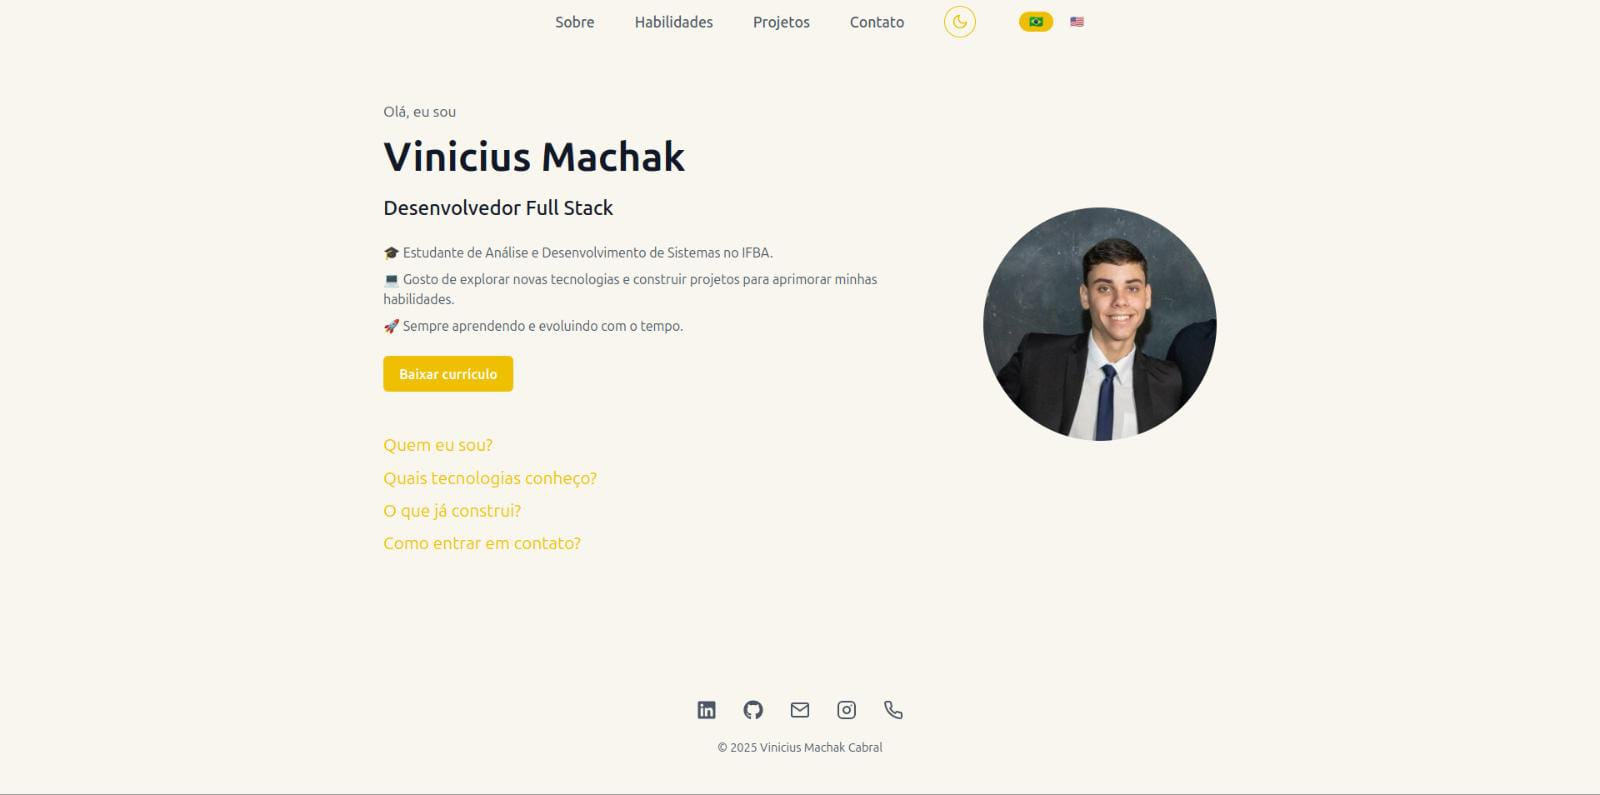
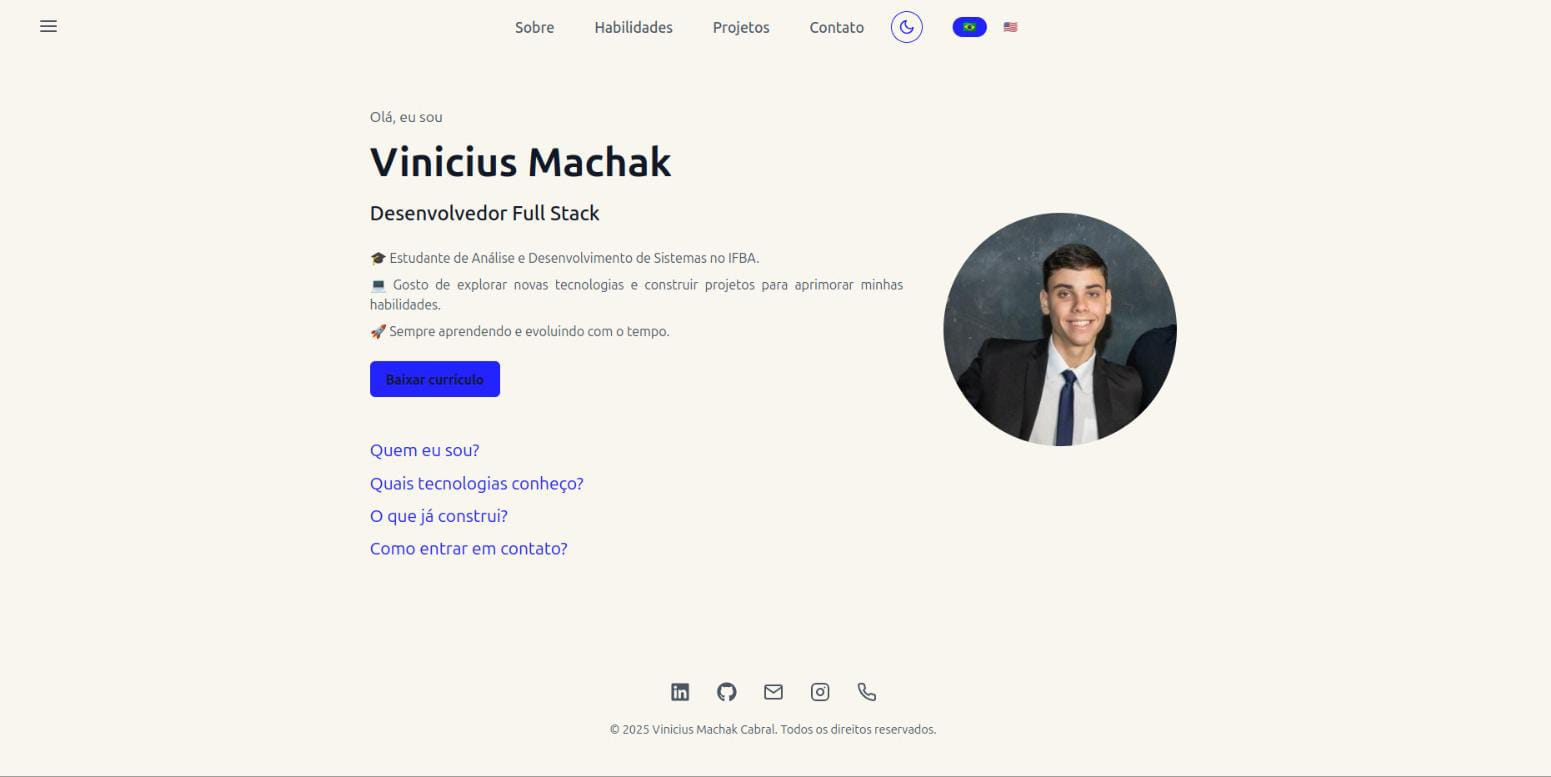
Adjust navigation bar layout, video modal framing, and update content (CV, photo, and title)

diff --git a/src/components/Navbar.jsx b/src/components/Navbar.jsx
@@ -19,7 +19,7 @@ const Navbar = ({ currentTheme, toggleTheme }) => {
       <nav className={styles.navbar}>
         <div className={styles.navItems}>
           <button className={styles.menuButton} onClick={toggleSidebar} aria-label={t('navbar.aria_open_menu')}>
-            {isSidebarOpen ? <FiX size={24} /> : <FiMenu size={24} />}
+            {isSidebarOpen ? <FiX size={28} /> : <FiMenu size={28} />}
           </button>
 
           {location.pathname !== '/' && (
@@ -31,7 +31,7 @@ const Navbar = ({ currentTheme, toggleTheme }) => {
               aria-label={t('navbar.aria_go_home')}
               onClick={closeSidebar}
             >
-              <FiHome size={22} />
+              <FiHome size={26} />
             </NavLink>
           )}
 
@@ -60,7 +60,7 @@ const Navbar = ({ currentTheme, toggleTheme }) => {
 
       <div className={`${styles.sidebar} ${isSidebarOpen ? styles.open : ''}`}>
         <NavLink to="/" onClick={closeSidebar} className={styles.sidebarLink}>
-          <FiHome size={22} />
+          <FiHome size={28} />
         </NavLink>
 
         <NavLink to="/about" onClick={closeSidebar} className={styles.sidebarLink}>

diff --git a/src/components/LanguageSwitcher.module.css b/src/components/LanguageSwitcher.module.css
@@ -2,19 +2,23 @@
   display: flex;
   gap: 0.5rem;
   background-color: var(--background-primary);
-  padding: 0.25rem;
+  padding: 0.4rem;
   border-radius: 9999px;
 }
 
 .button {
   background-color: transparent;
   border: none;
-  padding: 0.25rem 0.75rem;
+  padding: 0.4rem 1rem;
   cursor: pointer;
   font-weight: bold;
+  font-size: 1.2rem;
   color: var(--text-secondary);
   border-radius: 9999px;
   transition: all 0.3s;
+  display: flex;
+  align-items: center;
+  justify-content: center;
 }
 
 .button:hover {
@@ -23,5 +27,5 @@
 
 .active {
   background-color: var(--accent-color);
-  color: var(--text-primary);
+  color: white;
 }

diff --git a/src/components/ThemeToggle.module.css b/src/components/ThemeToggle.module.css
@@ -1,17 +1,17 @@
 .toggleButton {
   background-color: transparent;
-  border: 1px solid var(--accent-color);
+  border: none;
   border-radius: 9999px;
   cursor: pointer;
-  padding: 0.5rem;
+  padding: 0.6rem;
+  font-size: 1.3rem;
   display: flex;
   align-items: center;
   justify-content: center;
-  color: var(--accent-color);
-  transition: background-color 0.2s, color 0.2s;
+  color: var(--text-secondary);
+  transition: all 0.3s;
 }
 
 .toggleButton:hover {
-  background-color: var(--accent-color);
-  color: var(--background-primary);
+  color: var(--accent-color);
 }

diff --git a/src/pages/Projects.jsx b/src/pages/Projects.jsx
@@ -21,7 +21,7 @@ const projects = [
     titleKey: 'projects.project1.title',
     descriptionKey: 'projects.project1.description',
     image: '/assets/SoundRate-pic.jpeg',
-    videoUrl: 'https://www.youtube.com/embed/kSSXmqqYHyU?si=-GJUdmueXAu2B5j1',
+    videoUrl: 'https://www.youtube.com/embed/kSSXmqqYHyU?si=-GJUdmueXAu2B5j1&autoplay=1',
     tags: ['Spring Boot', 'Java', 'Angular', 'TypeScript', 'PostgreSQL', 'Docker'],
     github: 'https://github.com/viniciusmcabral/sound-rate.git',
     liveDemo: 'https://soundrate-05gm.onrender.com/',

diff --git a/src/pages/About.module.css b/src/pages/About.module.css
@@ -60,11 +60,12 @@
 @media (max-width: 768px) {
   .aboutSection {
     align-items: flex-start;
+    padding: 2rem 1rem;
   }
 
   .container {
-    padding: 2rem 1.5rem;
-    margin: 1rem;
+    padding: 0;
+    margin: 0;
   }
 
   .title {
@@ -87,11 +88,5 @@
     order: -1;
     width: 200px;
     height: 200px;
-  }
-
-  .aboutImage {
-    max-width: 250px;
-    width: 100%;
-    height: auto;
   }
 }

diff --git a/src/pages/Projects.module.css b/src/pages/Projects.module.css
@@ -1,5 +1,4 @@
 .projectsSection {
-  background-color: var(--background-primary);
   min-height: calc(100vh - 80px - 120px);
   display: flex;
   align-items: center;
@@ -160,8 +159,8 @@
   position: relative;
   width: 90%;
   max-width: 900px;
-  height: 0;
-  padding-bottom: 50.625%;
+  max-height: 85%;
+  aspect-ratio: 16 / 9;
   background-color: black;
   border-radius: 8px;
   overflow: hidden;

diff --git a/src/components/ThemeToggle.jsx b/src/components/ThemeToggle.jsx
@@ -4,7 +4,7 @@ import styles from './ThemeToggle.module.css';
 const ThemeToggle = ({ currentTheme, toggleTheme }) => {
   return (
     <button className={styles.toggleButton} onClick={toggleTheme}>
-      {currentTheme === 'light' ? <FiMoon size={20} /> : <FiSun size={20} />}
+      {currentTheme === 'light' ? <FiMoon size={26} /> : <FiSun size={26} />}
     </button>
   );
 };

diff --git a/src/components/Footer.jsx b/src/components/Footer.jsx
@@ -13,7 +13,7 @@ const Footer = () => {
           <FaLinkedin size={24} />
         </a>
 
-        <a href="https://github.com/viniciusmcabral" target="_blank" rel="noopener noreferrer" aria-label="GitHub">
+        <a href="https://github.com/viniciusmachak" target="_blank" rel="noopener noreferrer" aria-label="GitHub">
           <FaGithub size={24} />
         </a>
 

diff --git a/src/components/Layout.jsx b/src/components/Layout.jsx
@@ -7,11 +7,11 @@ const Layout = ({ currentTheme, toggleTheme }) => {
   return (
     <div className={styles.layoutContainer}>
       <Navbar currentTheme={currentTheme} toggleTheme={toggleTheme} />
-      
+
       <main className={styles.contentWrap}>
         <Outlet />
       </main>
-      
+
       <Footer />
     </div>
   );

diff --git a/index.html b/index.html
@@ -4,7 +4,7 @@
     <meta charset="UTF-8" />
     <link rel="icon" type="image/svg+xml" href="/vite.svg" />
     <meta name="viewport" content="width=device-width, initial-scale=1.0" />
-    <title>my-site</title>
+    <title>Vinicius Machak</title>
   </head>
   <body>
     <div id="root"></div>

diff --git a/src/components/Layout.module.css b/src/components/Layout.module.css
@@ -1,10 +1,11 @@
 .layoutContainer {
   display: flex;
   flex-direction: column;
-  min-height: 100vh; 
+  min-height: 100vh;
 }
 
 .contentWrap {
-  flex-grow: 1; 
+  flex-grow: 1;
   padding-top: 80px;
+  padding-bottom: 40px;
 }

diff --git a/src/pages/Home.module.css b/src/pages/Home.module.css
@@ -62,7 +62,7 @@
 .cvButton {
   display: inline-block;
   background-color: var(--accent-color);
-  color: var(--text-primary);
+  color: white;
   padding: 0.6rem 1.2rem;
   border-radius: 6px;
   text-decoration: none;
